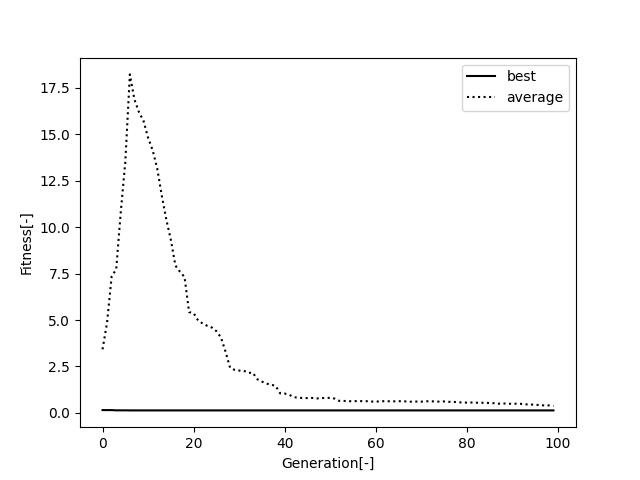
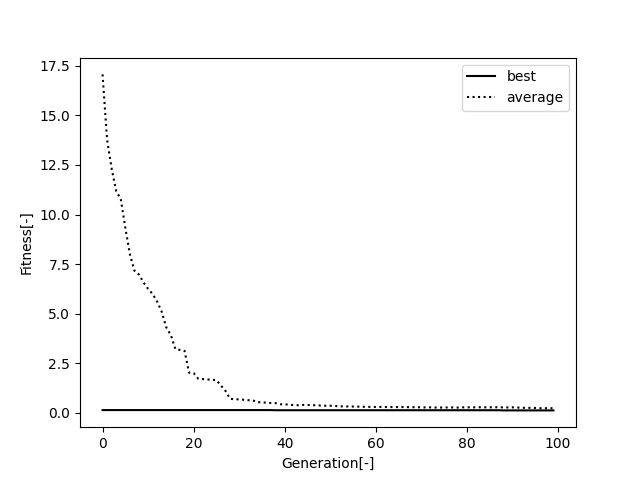
eval de hyoukati ni kakawarazu randamu ni saiakiseki

diff --git a/src/optimization.py b/src/optimization.py
@@ -224,6 +224,17 @@ class GeneticAlgorithm():
             bx,by         = tb.CalB_v2(A_rescaling,self.node,self.element)
             absb_pred     = tb.CalTargetBB(bx,by)
             fitness_pred  = self.obj_func(list_s[j],absb_pred)
+
+             # 2. FEM 再解析するか判断
+            if  cfg.POLICIES[self.p] < random.random():
+                used_fem_flag = True
+                self.numfem  += 1
+                a_reval       = Cal.Cal(0,self.p,self.seed,g[j].id(),g[j].gene())
+                a_reval       = a_reval.reshape(-1, 1)
+                bx,by         = tb.CalB_v2(a_reval,self.node,self.element)
+                absb_pred     = tb.CalTargetBB(bx,by)
+                fitness_pred  = self.obj_func(g[j].s(), absb_pred)
+                
             g[j].set_fem(used_fem_flag)
             g[j].set_absb(absb_pred)
             g[j].set_fitness(fitness_pred)
@@ -244,7 +255,7 @@ class GeneticAlgorithm():
 
     def reval_best(self):
         g             = self.best
-        a_reval       = Cal.Cal(1,self.p,self.seed,g.id(),g.gene())
+        _             = Cal.Cal(1,self.p,self.seed,g.id(),g.gene())
         
     def reval_pop(self):
         i = 0

diff --git a/src/main.py b/src/main.py
@@ -3,7 +3,7 @@ import optimization
 import config as cfg
 import time
 #-----------------------------------------------
-config_list = [[0,"b"],[1,"b"],[2,"b"]]
+config_list = [[0,"a-reval-in-evalfunc"],[1,"a-reval-in-evalfunc"],[2,"a-reval-in-evalfunc"]]
 for config in config_list:
     start = time.time()
     seed  = config[0]

diff --git a/src/config.py b/src/config.py
@@ -56,6 +56,7 @@ ALPHA = 1e+5
 POLICIES = {
     "a": 0.05,
     "b": 0.20,
+    "a-reval-in-evalfunc":0.5,
 }
 
 
